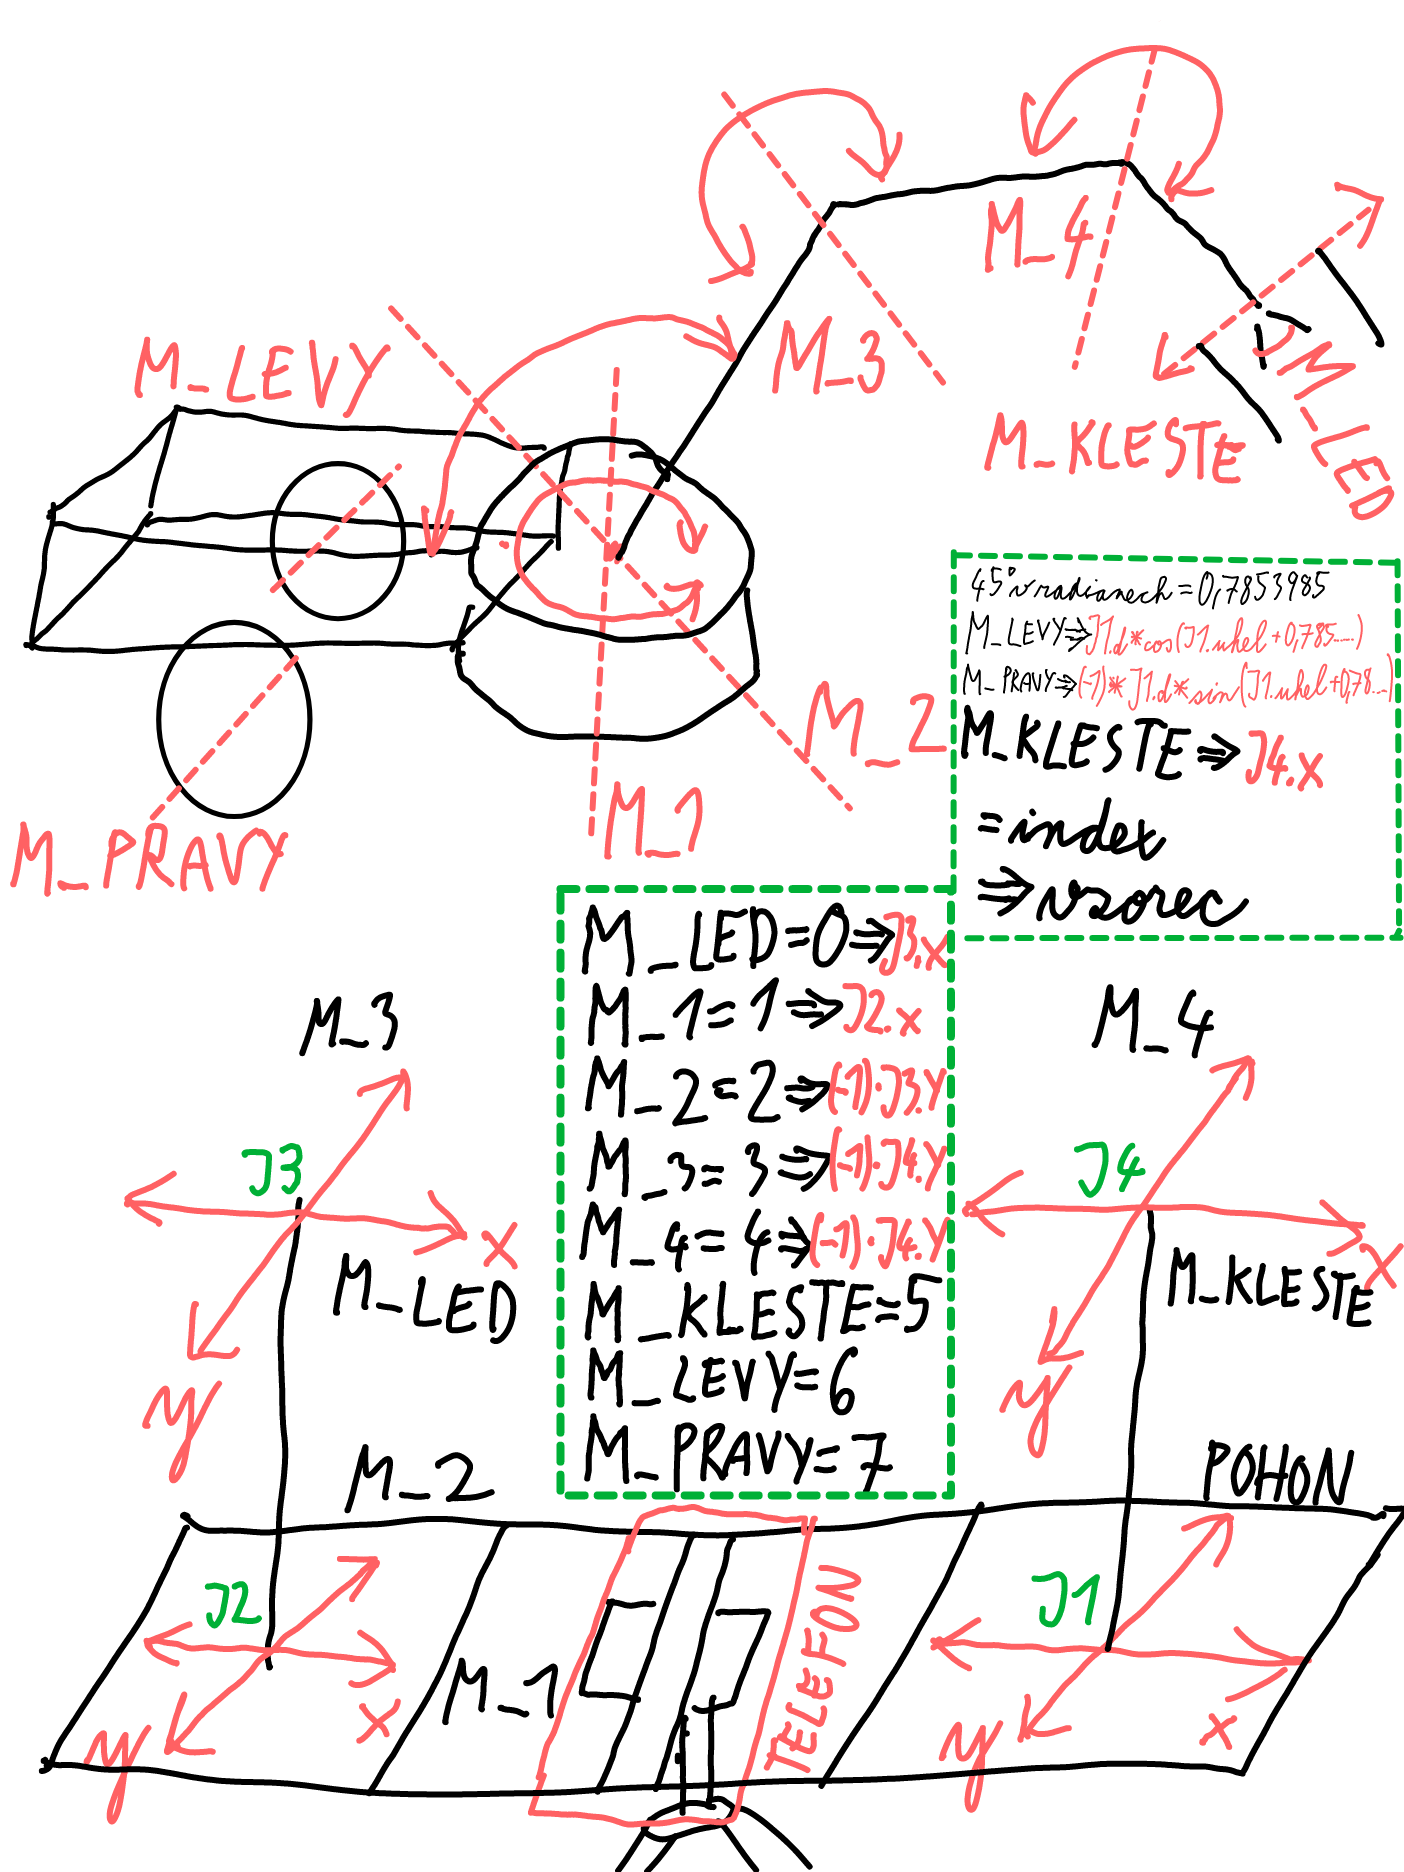
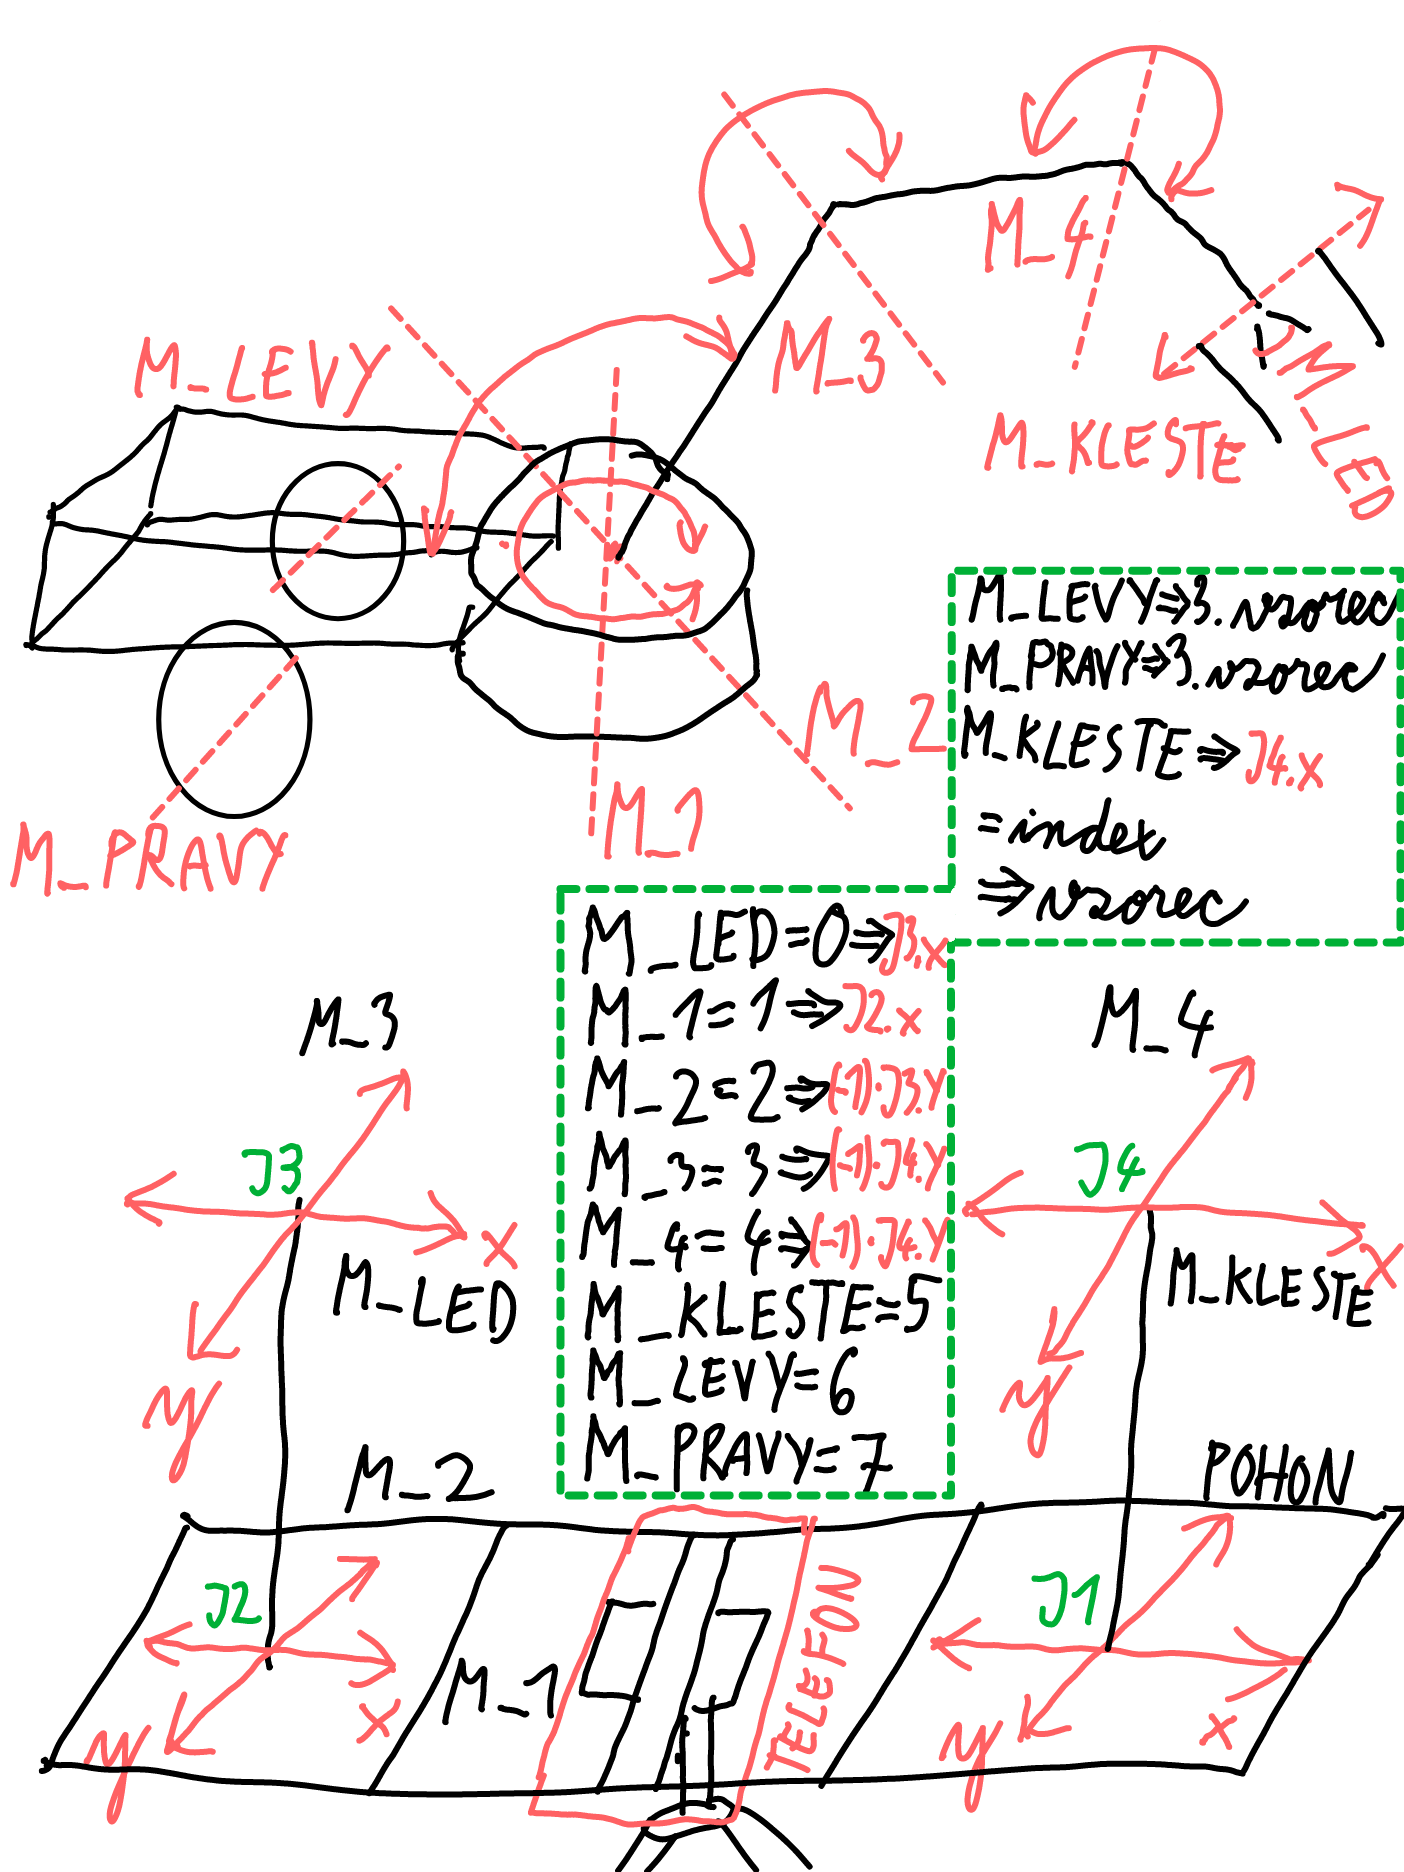
3.vzorec

Changed region(s): [[0.6738, 0.2788, 1.0, 0.5267]]

diff --git a/ESP32Slave/data/script.js b/ESP32Slave/data/script.js
@@ -471,17 +471,29 @@ function rozdilPravy(uhel)
         console.log(1);
         return 1;
     }
-    else if(uhelRozdil > 180 && uhelRozdil < 270)
+    else if(uhelRozdil > 180 && uhelRozdil < 225)
     {
         console.log("vystup3");
-        console.log((225 - uhelRozdil)/45);
-        return (225 - uhelRozdil)/45;
+        console.log((202.5 - uhelRozdil)/22.5);
+        return (202.5 - uhelRozdil)/22.5;
     }
-    else if(uhelRozdil >= 270 && uhelRozdil <= 360)
+    else if(uhelRozdil >= 255 && uhelRozdil <= 270)
     {
         console.log("vystup4");
         console.log(-1);
         return -1;
+    }
+    else if(uhelRozdil > 270 && uhelRozdil <= 315)
+    {
+        console.log("vystup5");
+        console.log((uhelRozdil-315)/45);
+        return (uhelRozdil-315)/45;
+    }
+    else if(uhelRozdil > 315 && uhelRozdil <= 360)
+    {
+        console.log("vystup6");
+        console.log((315 - uhelRozdil)/45);
+        return (315 - uhelRozdil)/45;
     }
     return 0;
 }
@@ -510,19 +522,30 @@ function rozdilLevy(uhel)
         console.log("vystup2");
         console.log((135 - uhelRozdil)/45);
         return (135 - uhelRozdil)/45;
-
     }
-    else if(uhelRozdil >= 180 && uhelRozdil <= 270)
+    else if(uhelRozdil > 180 && uhelRozdil <= 225)
     {
         console.log("vystup3");
+        console.log((uhelRozdil-225)/45);
+        return (uhelRozdil-225)/45;
+    }
+    else if(uhelRozdil > 225 && uhelRozdil < 270)
+    {
+        console.log("vystup4");
+        console.log((225 - uhelRozdil)/45);
+        return (225 - uhelRozdil)/45;
+    }
+    else if(uhelRozdil >= 270 && uhelRozdil <= 315)
+    {
+        console.log("vystup5");
         console.log(-1);
         return -1;
     }
-    else if(uhelRozdil > 270 && uhelRozdil <= 360)
+    else if(uhelRozdil > 315 && uhelRozdil <= 360)
     {
-        console.log("vystup4");
-        console.log((uhelRozdil-315)/45);
-        return (uhelRozdil-315)/45;
+        console.log("vystup6");
+        console.log((uhelRozdil-337.5)/22.5);
+        return (uhelRozdil-337.5)/22.5;
     }
     return 0;
 }

diff --git a/Ovladac/Readme.md b/Ovladac/Readme.md
@@ -28,6 +28,7 @@ Levý Horní = Rameno.
 - M4 = osa y.
     
 <img src = "fotky/koncept_ovladace.png">
+<img src = "fotky/3.vzorec.png">
 
 ## Jednotka joysticku
 <img src = "fotky/joystickova_jednotka.jpg">
